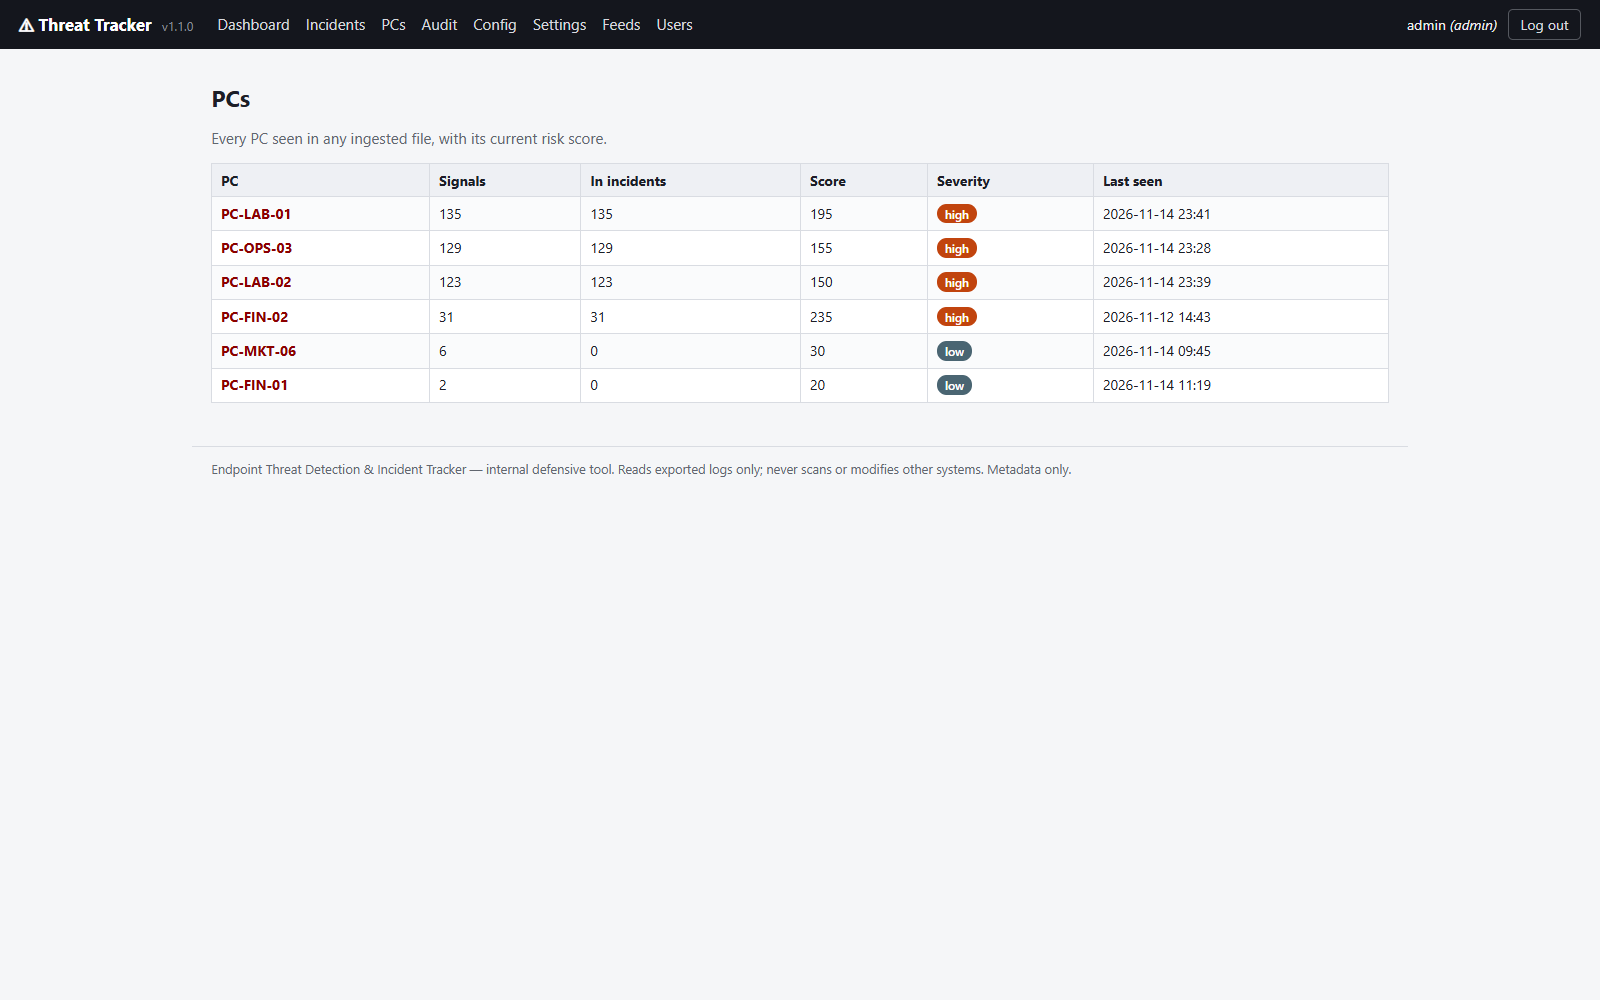
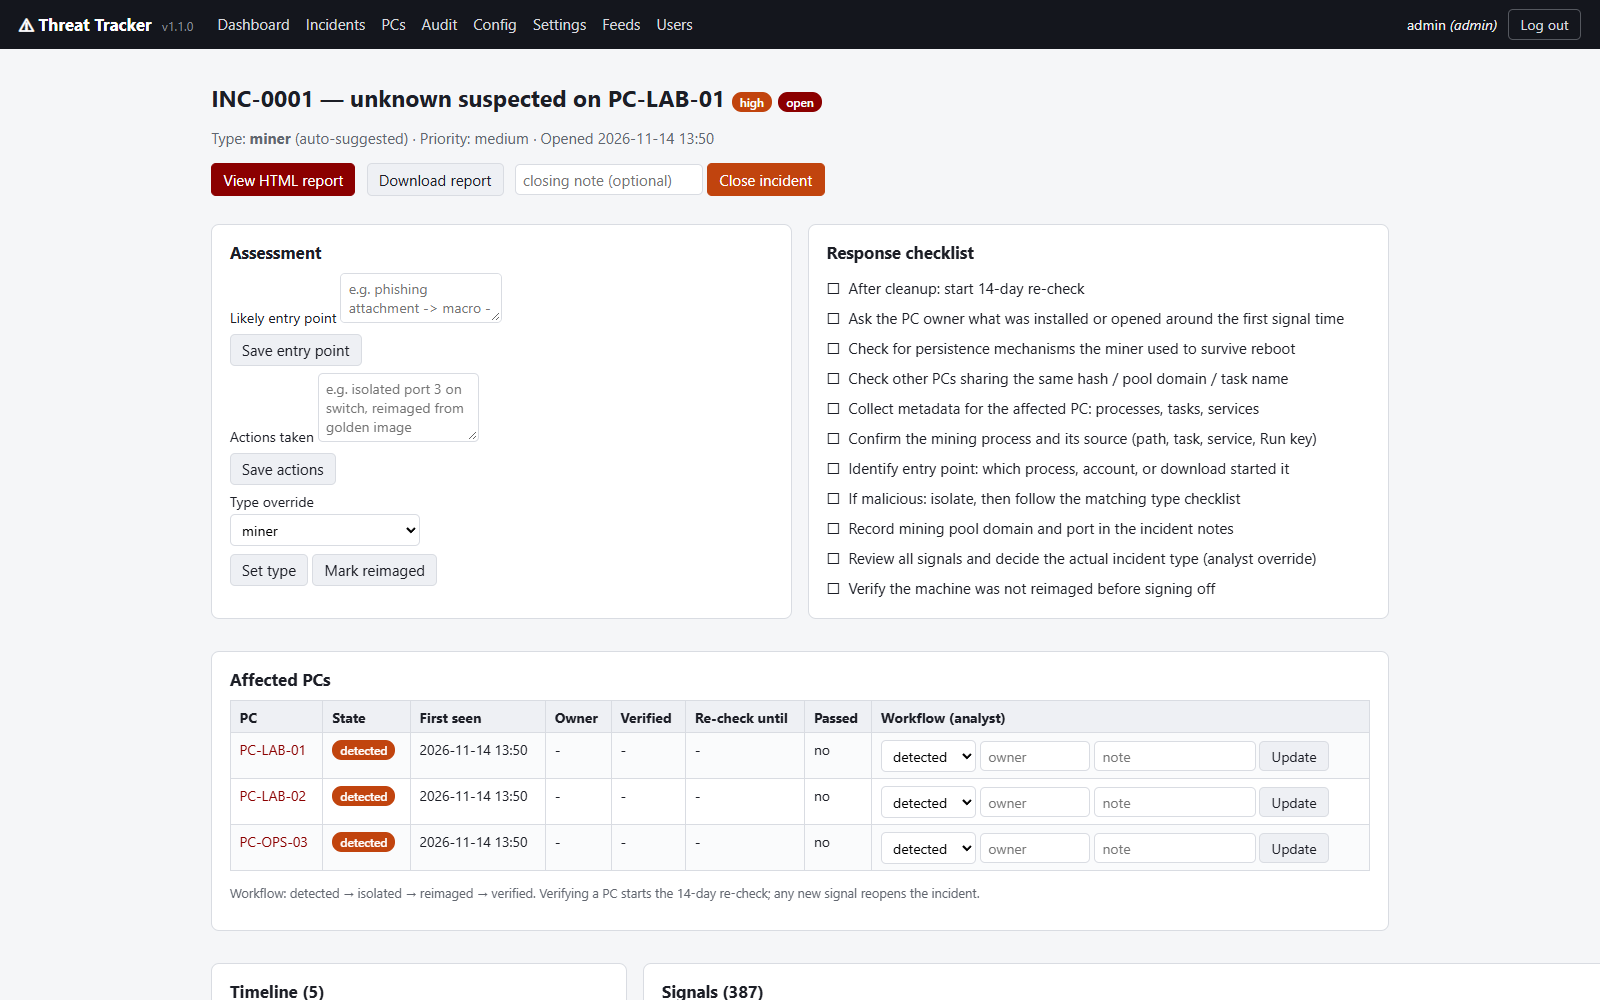
Stop showing empty picture frames, and make the tracker cover readable.
Two of the three cards carried a hatched placeholder filling a third of the card, so
the grid advertised what was missing. A project with no screenshot now gets a text-first
card at its natural height. The tracker cover is a tight crop of its incident page
(assessment, checklist and affected-PC table), which reads at card size where the whole
window had been noise; the full pages stay in the gallery.

diff --git a/projects/endpoint-threat-tracker/index.html b/projects/endpoint-threat-tracker/index.html
@@ -25,7 +25,7 @@
 <header class="site-header"><div class="wrap bar"><a class="brand" href="../../index.html">Jeffrey Valeros</a><button type="button" class="menu-btn" data-menu aria-expanded="false" aria-controls="site-nav" aria-label="Open menu"><svg aria-hidden="true" width="18" height="18" viewBox="0 0 24 24" fill="none" stroke="currentColor" stroke-width="2" stroke-linecap="round" stroke-linejoin="round"><path d="M4 7h16M4 12h16M4 17h16"/></svg></button><nav id="site-nav" aria-label="Primary"><a class="nav-link" href="../../index.html#projects">Work</a><a class="nav-link" href="../../about/">About</a><a class="nav-link" href="../../contact/">Contact</a><a class="btn btn--primary btn--sm" href="mailto:Jeffreyvaleros12@gmail.com">Email me</a></nav></div></header>
 <main id="main" tabindex="-1">
 <article>
-<div class="wrap project"><a class="crumb" href="../../index.html#projects"><svg aria-hidden="true" width="18" height="18" viewBox="0 0 24 24" fill="none" stroke="currentColor" stroke-width="2" stroke-linecap="round" stroke-linejoin="round"><path d="M19 12H5M11 6l-6 6 6 6"/></svg>All projects</a><div class="pagehead"><div class="pagehead__text"><div class="pagehead__meta"><span class="label">01 / Web</span><span class="status"><span class="dot dot--ok" aria-hidden="true"></span>Live</span><button type="button" class="copybtn copybtn--meta" data-copy>Copy link</button><span class="sr-only" role="status" data-copy-status></span></div><h1>Endpoint Threat Tracker</h1><p class="lead">A defensive, read-only threat detection and incident tracker for Windows endpoints, with a local dashboard.</p></div></div><div class="strip"><div><span class="label">Role</span><span class="v">Solo</span></div><div><span class="label">Timeline</span><span class="v">Oct 23 - 29, 2026</span></div><div><span class="label">Type</span><span class="v">Web</span></div></div><div class="glance"><h2 class="label">At a glance</h2><div class="glance__row"><div class="glance__item"><span class="label">The problem</span><p>A small team has endpoint logs and indicator lists, but nothing that turns them into incidents someone can work through.</p></div><div class="glance__item"><span class="label">What I built</span><p>Export scripts drop metadata-only logs into an inbox; the tracker parses them, scores machines against editable indicators, correlates signals into incidents, and tracks response to a 14-day re-check.</p></div></div></div><div class="shot shot--round"><img src="../../images/endpoint-threat-tracker-1.png" alt="Endpoint Threat Tracker main screenshot" loading="eager" fetchpriority="high" decoding="async"></div></div><div class="layout wrap"><div class="layout__main"><section class="block"><h2>Key features</h2><div class="features"><div class="feature"><span class="num">01</span><div><h3>Read-only by construction</h3><p>It only reads files dropped into an inbox folder: it never scans, probes, blocks or deletes on any machine.</p></div></div><div class="feature"><span class="num">02</span><div><h3>Detection families</h3><p>Cryptomining, ransomware, remote access and suspicious-execution rules, all editable as indicator lists.</p></div></div><div class="feature"><span class="num">03</span><div><h3>Incidents with checklists</h3><p>Correlated signals become incidents with per-type response checklists, per-PC workflow states and a post-cleanup re-check.</p></div></div><div class="feature"><span class="num">04</span><div><h3>Config, not code</h3><p>Every path, threshold, weight and indicator list is a config file, so tuning needs no code change.</p></div></div><div class="feature"><span class="num">05</span><div><h3>Hardened parsing</h3><p>Event logs arrive as CSV with a JSON column, so XML-based parser attacks have no surface.</p></div></div><div class="feature"><span class="num">06</span><div><h3>Audit and alerts</h3><p>Parameterised SQLite storage with schema tracking, PBKDF2 sessions, and alerts to log, email or Teams.</p></div></div></div></section><section class="block"><h2>Decisions and trade-offs</h2><div class="pairs"><div class="pair"><div><span class="label">The trade-off</span><p>Security tooling that scans endpoints is itself a risk: a bug becomes an outage on someone else&#39;s machine.</p></div><div><span class="label label--accent">What I did</span><p>Constrained it to read-only ingest from a drop folder, and wrote that boundary down as the first design rule rather than a feature.</p></div></div><div class="pair"><div><span class="label">The trade-off</span><p>The parser was the soft spot. XML-based event logs open the door to entity-expansion attacks.</p></div><div><span class="label label--accent">What I did</span><p>Removed XML entirely: logs are exported as CSV with a JSON column, which closes that class of attack instead of filtering it.</p></div></div><div class="pair"><div><span class="label">The trade-off</span><p>Scoring rules change every week, and a code change per rule means a deploy per rule.</p></div><div><span class="label label--accent">What I did</span><p>Every path, threshold, weight and indicator list lives in config, so tuning happens without touching the tracker.</p></div></div></div></section><section class="block"><h2>Screenshots</h2><div class="gallery"><div class="shot"><img src="../../images/endpoint-threat-tracker-2.png" alt="Endpoint Threat Tracker screenshot 2" loading="lazy" decoding="async"></div><div class="shot"><img src="../../images/endpoint-threat-tracker-3.png" alt="Endpoint Threat Tracker screenshot 3" loading="lazy" decoding="async"></div></div></section></div><div class="layout__side"><div class="sidecard"><h2 class="label">Tech stack</h2><div class="tags"><span class="tag">Python</span><span class="tag">FastAPI</span><span class="tag">SQLite</span><span class="tag">PowerShell</span></div></div></div></div><section class="cta"><div class="wrap"><div><h2>Need a system like this?</h2><p>Tell me about your problem.</p></div><a class="btn btn--white" href="../../index.html#contact">Start a project</a></div></section><nav class="next" aria-label="More projects"><div class="wrap pager"><a class="pager--prev" href="../secure-review/"><svg aria-hidden="true" width="18" height="18" viewBox="0 0 24 24" fill="none" stroke="currentColor" stroke-width="2" stroke-linecap="round" stroke-linejoin="round"><path d="M19 12H5M11 6l-6 6 6 6"/></svg><div><span class="label">Previous system</span><strong>Secure Review</strong></div></a><a class="pager--next" href="../clinic-inventory/"><div><span class="label">Next system</span><strong>Clinic Stock Ledger</strong></div><svg aria-hidden="true" width="18" height="18" viewBox="0 0 24 24" fill="none" stroke="currentColor" stroke-width="2" stroke-linecap="round" stroke-linejoin="round"><path d="M5 12h14M13 6l6 6-6 6"/></svg></a></div></nav></article>
+<div class="wrap project"><a class="crumb" href="../../index.html#projects"><svg aria-hidden="true" width="18" height="18" viewBox="0 0 24 24" fill="none" stroke="currentColor" stroke-width="2" stroke-linecap="round" stroke-linejoin="round"><path d="M19 12H5M11 6l-6 6 6 6"/></svg>All projects</a><div class="pagehead"><div class="pagehead__text"><div class="pagehead__meta"><span class="label">01 / Web</span><span class="status"><span class="dot dot--ok" aria-hidden="true"></span>Live</span><button type="button" class="copybtn copybtn--meta" data-copy>Copy link</button><span class="sr-only" role="status" data-copy-status></span></div><h1>Endpoint Threat Tracker</h1><p class="lead">A defensive, read-only threat detection and incident tracker for Windows endpoints, with a local dashboard.</p></div></div><div class="strip"><div><span class="label">Role</span><span class="v">Solo</span></div><div><span class="label">Timeline</span><span class="v">Oct 23 - 29, 2026</span></div><div><span class="label">Type</span><span class="v">Web</span></div></div><div class="glance"><h2 class="label">At a glance</h2><div class="glance__row"><div class="glance__item"><span class="label">The problem</span><p>A small team has endpoint logs and indicator lists, but nothing that turns them into incidents someone can work through.</p></div><div class="glance__item"><span class="label">What I built</span><p>Export scripts drop metadata-only logs into an inbox; the tracker parses them, scores machines against editable indicators, correlates signals into incidents, and tracks response to a 14-day re-check.</p></div></div></div><div class="shot shot--round"><img src="../../images/endpoint-threat-tracker-1.png" alt="Endpoint Threat Tracker main screenshot" loading="eager" fetchpriority="high" decoding="async"></div></div><div class="layout wrap"><div class="layout__main"><section class="block"><h2>Key features</h2><div class="features"><div class="feature"><span class="num">01</span><div><h3>Read-only by construction</h3><p>It only reads files dropped into an inbox folder: it never scans, probes, blocks or deletes on any machine.</p></div></div><div class="feature"><span class="num">02</span><div><h3>Detection families</h3><p>Cryptomining, ransomware, remote access and suspicious-execution rules, all editable as indicator lists.</p></div></div><div class="feature"><span class="num">03</span><div><h3>Incidents with checklists</h3><p>Correlated signals become incidents with per-type response checklists, per-PC workflow states and a post-cleanup re-check.</p></div></div><div class="feature"><span class="num">04</span><div><h3>Config, not code</h3><p>Every path, threshold, weight and indicator list is a config file, so tuning needs no code change.</p></div></div><div class="feature"><span class="num">05</span><div><h3>Hardened parsing</h3><p>Event logs arrive as CSV with a JSON column, so XML-based parser attacks have no surface.</p></div></div><div class="feature"><span class="num">06</span><div><h3>Audit and alerts</h3><p>Parameterised SQLite storage with schema tracking, PBKDF2 sessions, and alerts to log, email or Teams.</p></div></div></div></section><section class="block"><h2>Decisions and trade-offs</h2><div class="pairs"><div class="pair"><div><span class="label">The trade-off</span><p>Security tooling that scans endpoints is itself a risk: a bug becomes an outage on someone else&#39;s machine.</p></div><div><span class="label label--accent">What I did</span><p>Constrained it to read-only ingest from a drop folder, and wrote that boundary down as the first design rule rather than a feature.</p></div></div><div class="pair"><div><span class="label">The trade-off</span><p>The parser was the soft spot. XML-based event logs open the door to entity-expansion attacks.</p></div><div><span class="label label--accent">What I did</span><p>Removed XML entirely: logs are exported as CSV with a JSON column, which closes that class of attack instead of filtering it.</p></div></div><div class="pair"><div><span class="label">The trade-off</span><p>Scoring rules change every week, and a code change per rule means a deploy per rule.</p></div><div><span class="label label--accent">What I did</span><p>Every path, threshold, weight and indicator list lives in config, so tuning happens without touching the tracker.</p></div></div></div></section><section class="block"><h2>Screenshots</h2><div class="gallery"><div class="shot"><img src="../../images/endpoint-threat-tracker-2.png" alt="Endpoint Threat Tracker screenshot 2" loading="lazy" decoding="async"></div><div class="shot"><img src="../../images/endpoint-threat-tracker-3.png" alt="Endpoint Threat Tracker screenshot 3" loading="lazy" decoding="async"></div><div class="shot"><img src="../../images/endpoint-threat-tracker-4.png" alt="Endpoint Threat Tracker screenshot 4" loading="lazy" decoding="async"></div></div></section></div><div class="layout__side"><div class="sidecard"><h2 class="label">Tech stack</h2><div class="tags"><span class="tag">Python</span><span class="tag">FastAPI</span><span class="tag">SQLite</span><span class="tag">PowerShell</span></div></div></div></div><section class="cta"><div class="wrap"><div><h2>Need a system like this?</h2><p>Tell me about your problem.</p></div><a class="btn btn--white" href="../../index.html#contact">Start a project</a></div></section><nav class="next" aria-label="More projects"><div class="wrap pager"><a class="pager--prev" href="../secure-review/"><svg aria-hidden="true" width="18" height="18" viewBox="0 0 24 24" fill="none" stroke="currentColor" stroke-width="2" stroke-linecap="round" stroke-linejoin="round"><path d="M19 12H5M11 6l-6 6 6 6"/></svg><div><span class="label">Previous system</span><strong>Secure Review</strong></div></a><a class="pager--next" href="../clinic-inventory/"><div><span class="label">Next system</span><strong>Clinic Stock Ledger</strong></div><svg aria-hidden="true" width="18" height="18" viewBox="0 0 24 24" fill="none" stroke="currentColor" stroke-width="2" stroke-linecap="round" stroke-linejoin="round"><path d="M5 12h14M13 6l6 6-6 6"/></svg></a></div></nav></article>
 </main>
 <footer class="footer"><div class="wrap"><span>&copy; 2026 Jeffrey Valeros</span><a href="../../index.html">Back to the portfolio</a></div></footer>
 <script src="../../page.js"></script>

diff --git a/style.css b/style.css
@@ -166,6 +166,12 @@ h2.big { font-family: var(--display); font-weight: 700; font-size: 40px; letter-
 .card:hover { border-color: var(--line-strong); transform: translateY(-3px); box-shadow: 0 10px 28px rgba(15, 23, 32, .10); }
 @media (prefers-reduced-motion: reduce) { .card, .card:hover { transition: none; transform: none; } }
 .card__body { display: flex; flex-direction: column; gap: 14px; padding: 24px; flex: 1; }
+/* A system with no picture yet: the card takes its natural height instead of stretching
+   to match a card with a screenshot, so there is no padded hole where the image would be. */
+.card--text { align-self: start; }
+.card--text .card__body { padding-top: 32px; }
+.card--text h3 { font-size: 26px; }
+.card--text .more { margin-top: 18px; }
 .card__meta { display: flex; align-items: center; justify-content: space-between; gap: 12px; }
 .card h3 { font-family: var(--display); font-weight: 700; font-size: 24px; letter-spacing: -0.01em; line-height: 1.2; }
 .card p { font-size: 15px; line-height: 1.55; color: var(--muted); }

diff --git a/app.js b/app.js
@@ -397,8 +397,12 @@
         (has(p.role) ? '<div><span class="label">My role</span><span class="fact fact--muted">' + esc(p.role) + '</span></div>' : '') +
         '</div>';
     }
-    return '<a class="card" href="projects/' + esc(encodeURIComponent(p.id)) + '/">' +
-      shot(list(p.screenshots)[0], p.name + ' screenshot') +
+    // A project with no picture yet gets a text-first card rather than a hatched empty
+    // frame filling a third of it. The frame belongs in the preview, not the page.
+    var cover = list(p.screenshots)[0];
+    var hasCover = has(cover) && !isPlaceholder(cover);
+    return '<a class="card' + (hasCover ? '' : ' card--text') + '" href="projects/' + esc(encodeURIComponent(p.id)) + '/">' +
+      (hasCover ? shot(cover, p.name + ' screenshot') : '') +
       '<div class="card__body"><div class="card__meta"><span class="label">' + pad(n) + ' / ' + esc(p.type) + '</span>' + statusHtml(p.status) + '</div>' +
       '<h3>' + esc(p.name) + '</h3><p>' + esc(p.summary) + '</p>' + facts +
       liveLine(p) +

diff --git a/content.js b/content.js
@@ -194,9 +194,10 @@ const PROJECTS = [
     // Real captures of the tracker running on the generated demo fleet. The first is
     // the cover image; the rest fill the Screenshots section further down the page.
     screenshots: [
-      "images/endpoint-threat-tracker-1.png",
+      "images/endpoint-threat-tracker-1.png", // close crop: reads in the small home-page card
       "images/endpoint-threat-tracker-2.png",
       "images/endpoint-threat-tracker-3.png",
+      "images/endpoint-threat-tracker-4.png",
     ],
 
     demoUrl: "",
